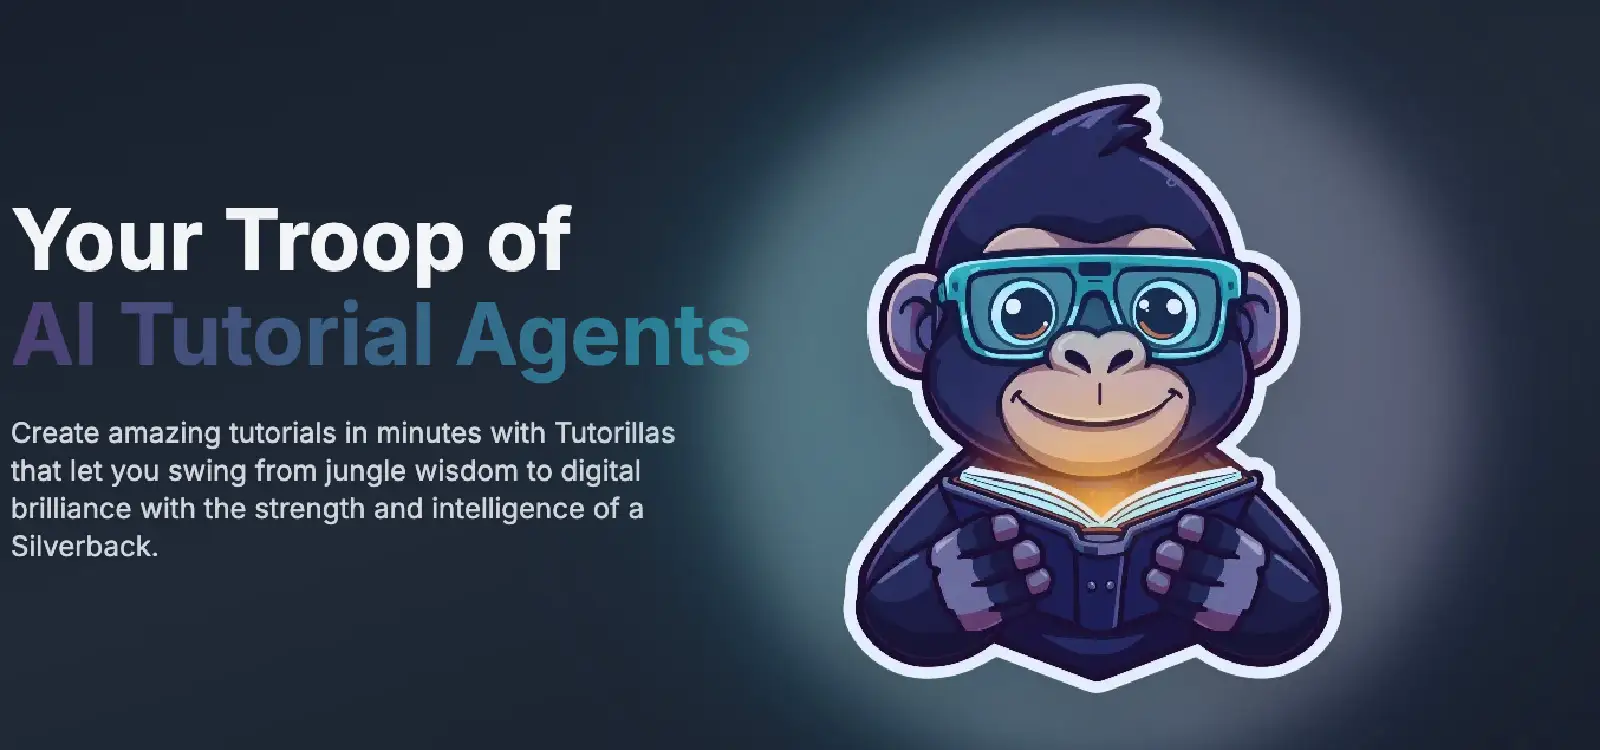
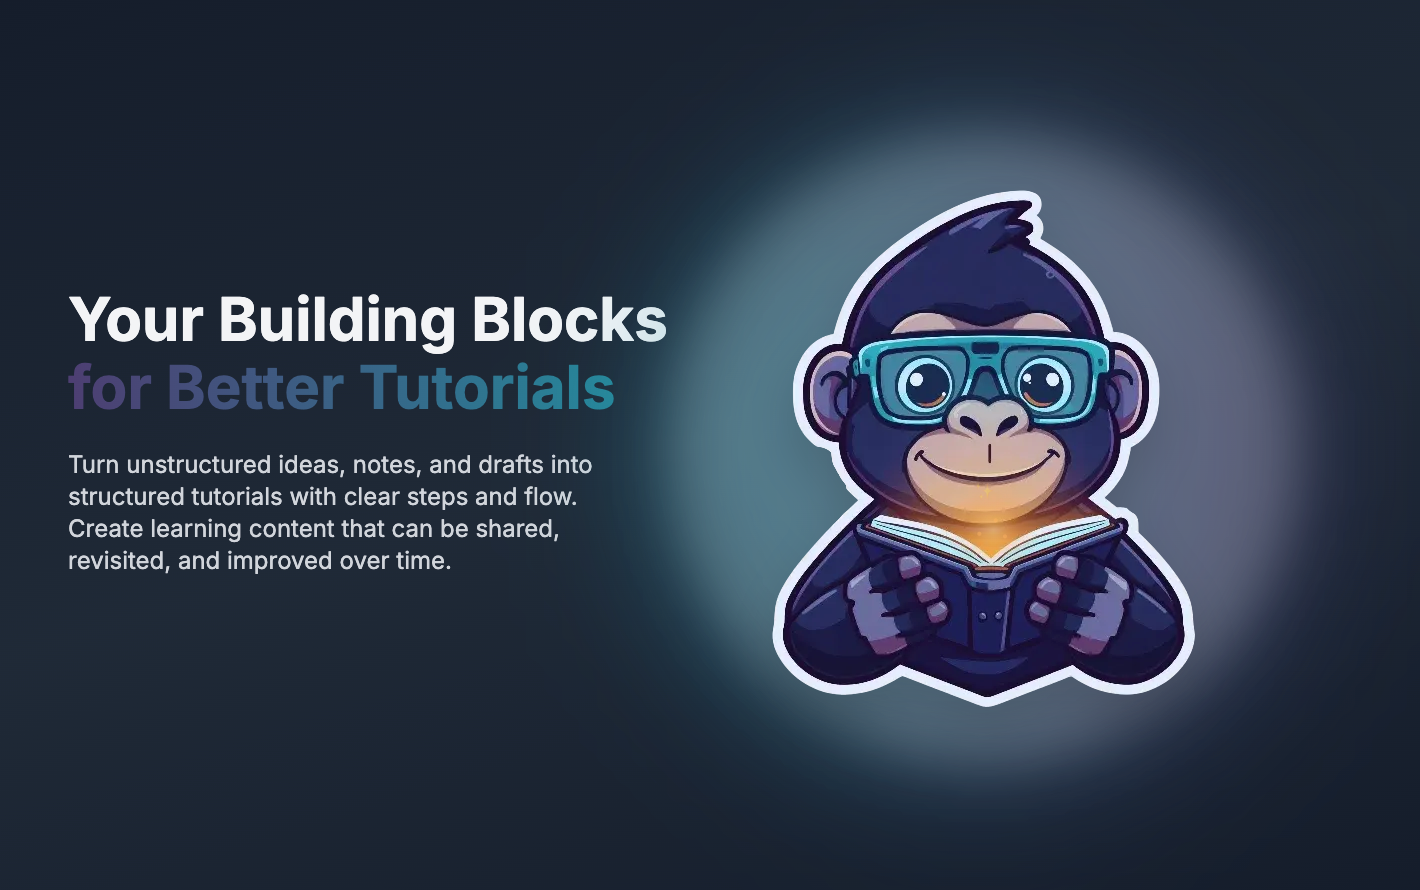
slight copy and image update

diff --git a/_posts/portfolio/2025-01-04-tutorilla.md b/_posts/portfolio/2025-01-04-tutorilla.md
@@ -2,14 +2,18 @@
 layout: post
 title:  "Tutorilla"
 categories: [ portfolio, orkitec ]
-image: assets/images/portfolio/orkitec/tutorilla-banner.jpg
+image: assets/images/portfolio/orkitec/tutorilla-banner.png
 redirect_from:
   - /tutorilla/
 ---
-Tutorilla is your troop of AI tutorial agents. Create amazing tutorials in minutes using advanced artificial intelligence that democratizes tutorial creation for anyone interested in sharing knowledge across any subject matter.
+Tutorilla provides the building blocks for better tutorials. Turn unstructured ideas, notes, and drafts into structured tutorials with clear steps and flow. Create learning content that can be shared, revisited, and improved over time.
 
-The platform automatically generates comprehensive tutorials with speed and efficiency – what used to take hours can now be completed in minutes. Whether you're creating content from beginner to advanced levels, Tutorilla supports virtually any subject.
+The idea came from a simple frustration: turning notes and half-formed ideas into tutorials that were actually easy to follow took far more effort than it should. Generic AI tools could generate text, but the results were usually unstructured and hard to use as real learning material. Writing guides manually meant spending too much time formatting, reorganizing, and maintaining consistency. Tutorilla was created to solve that gap.
 
-With built-in community features, users can share knowledge, discover new skills, and build their reputation through a community-driven marketplace. The AI ensures consistent formatting, proper structure, and engaging presentation, producing expert-level output with clear explanations that make topics easy to understand.
+Unlike one-off AI conversations that disappear, Tutorilla gives you a structured framework for creating reusable tutorials. The platform combines a markdown-powered editor with live preview and optional AI-assisted drafting to help you transform rough concepts into polished, step-by-step guides — keeping you in control of the final result. Create new tutorials from scratch, improve existing content, or generate matching images with AI image generation tailored to your content.
+
+The platform supports multiple languages including English, German, Spanish, Portuguese, Russian, and Czech, making it easy to reach a global audience. Tutorials can be kept private or published publicly for others to discover through search, categories, and tags. Pro users can export their work to PDF, EPUB, and HTML formats.
+
+Built for educators creating lesson-style materials, developers documenting technical workflows, content creators building how-to libraries, and teams maintaining SOPs and onboarding guides. Whether you're explaining processes, tools, or workflows, Tutorilla makes tutorial creation accessible without the overhead of a full LMS or the chaos of free-form writing tools.
 
 Visit [tutorilla.com](https://tutorilla.com) to start creating tutorials today.
